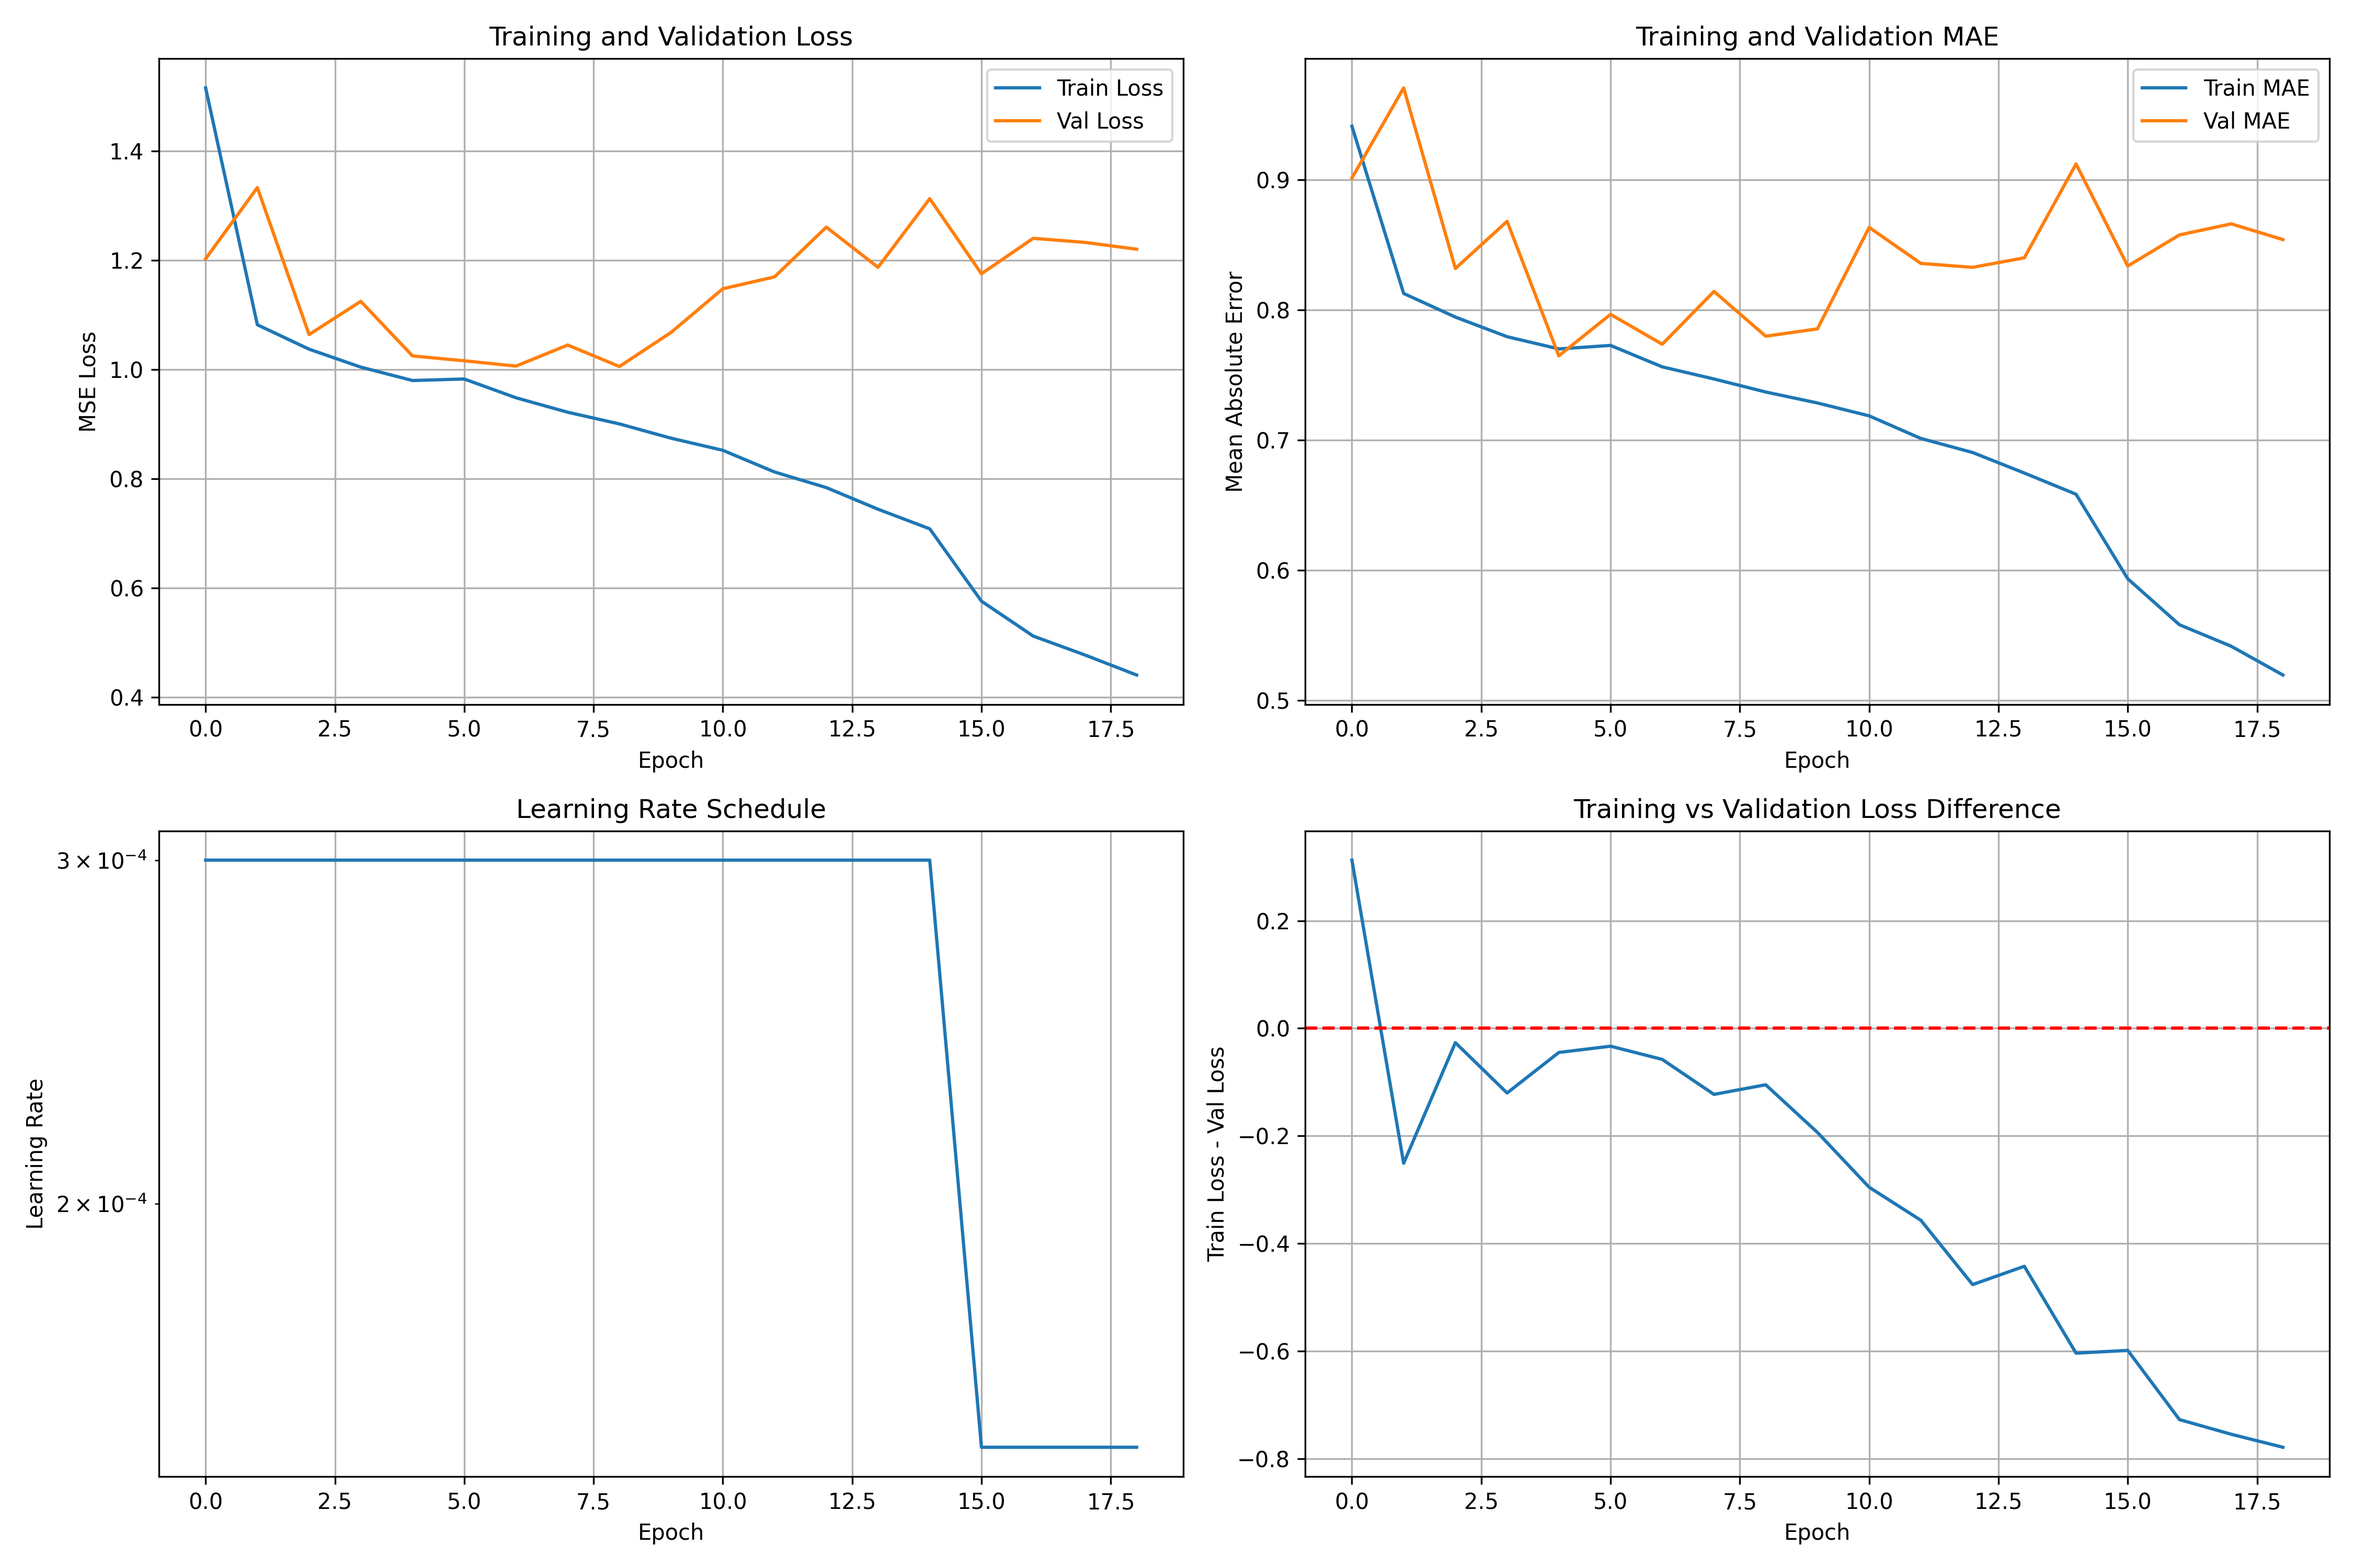
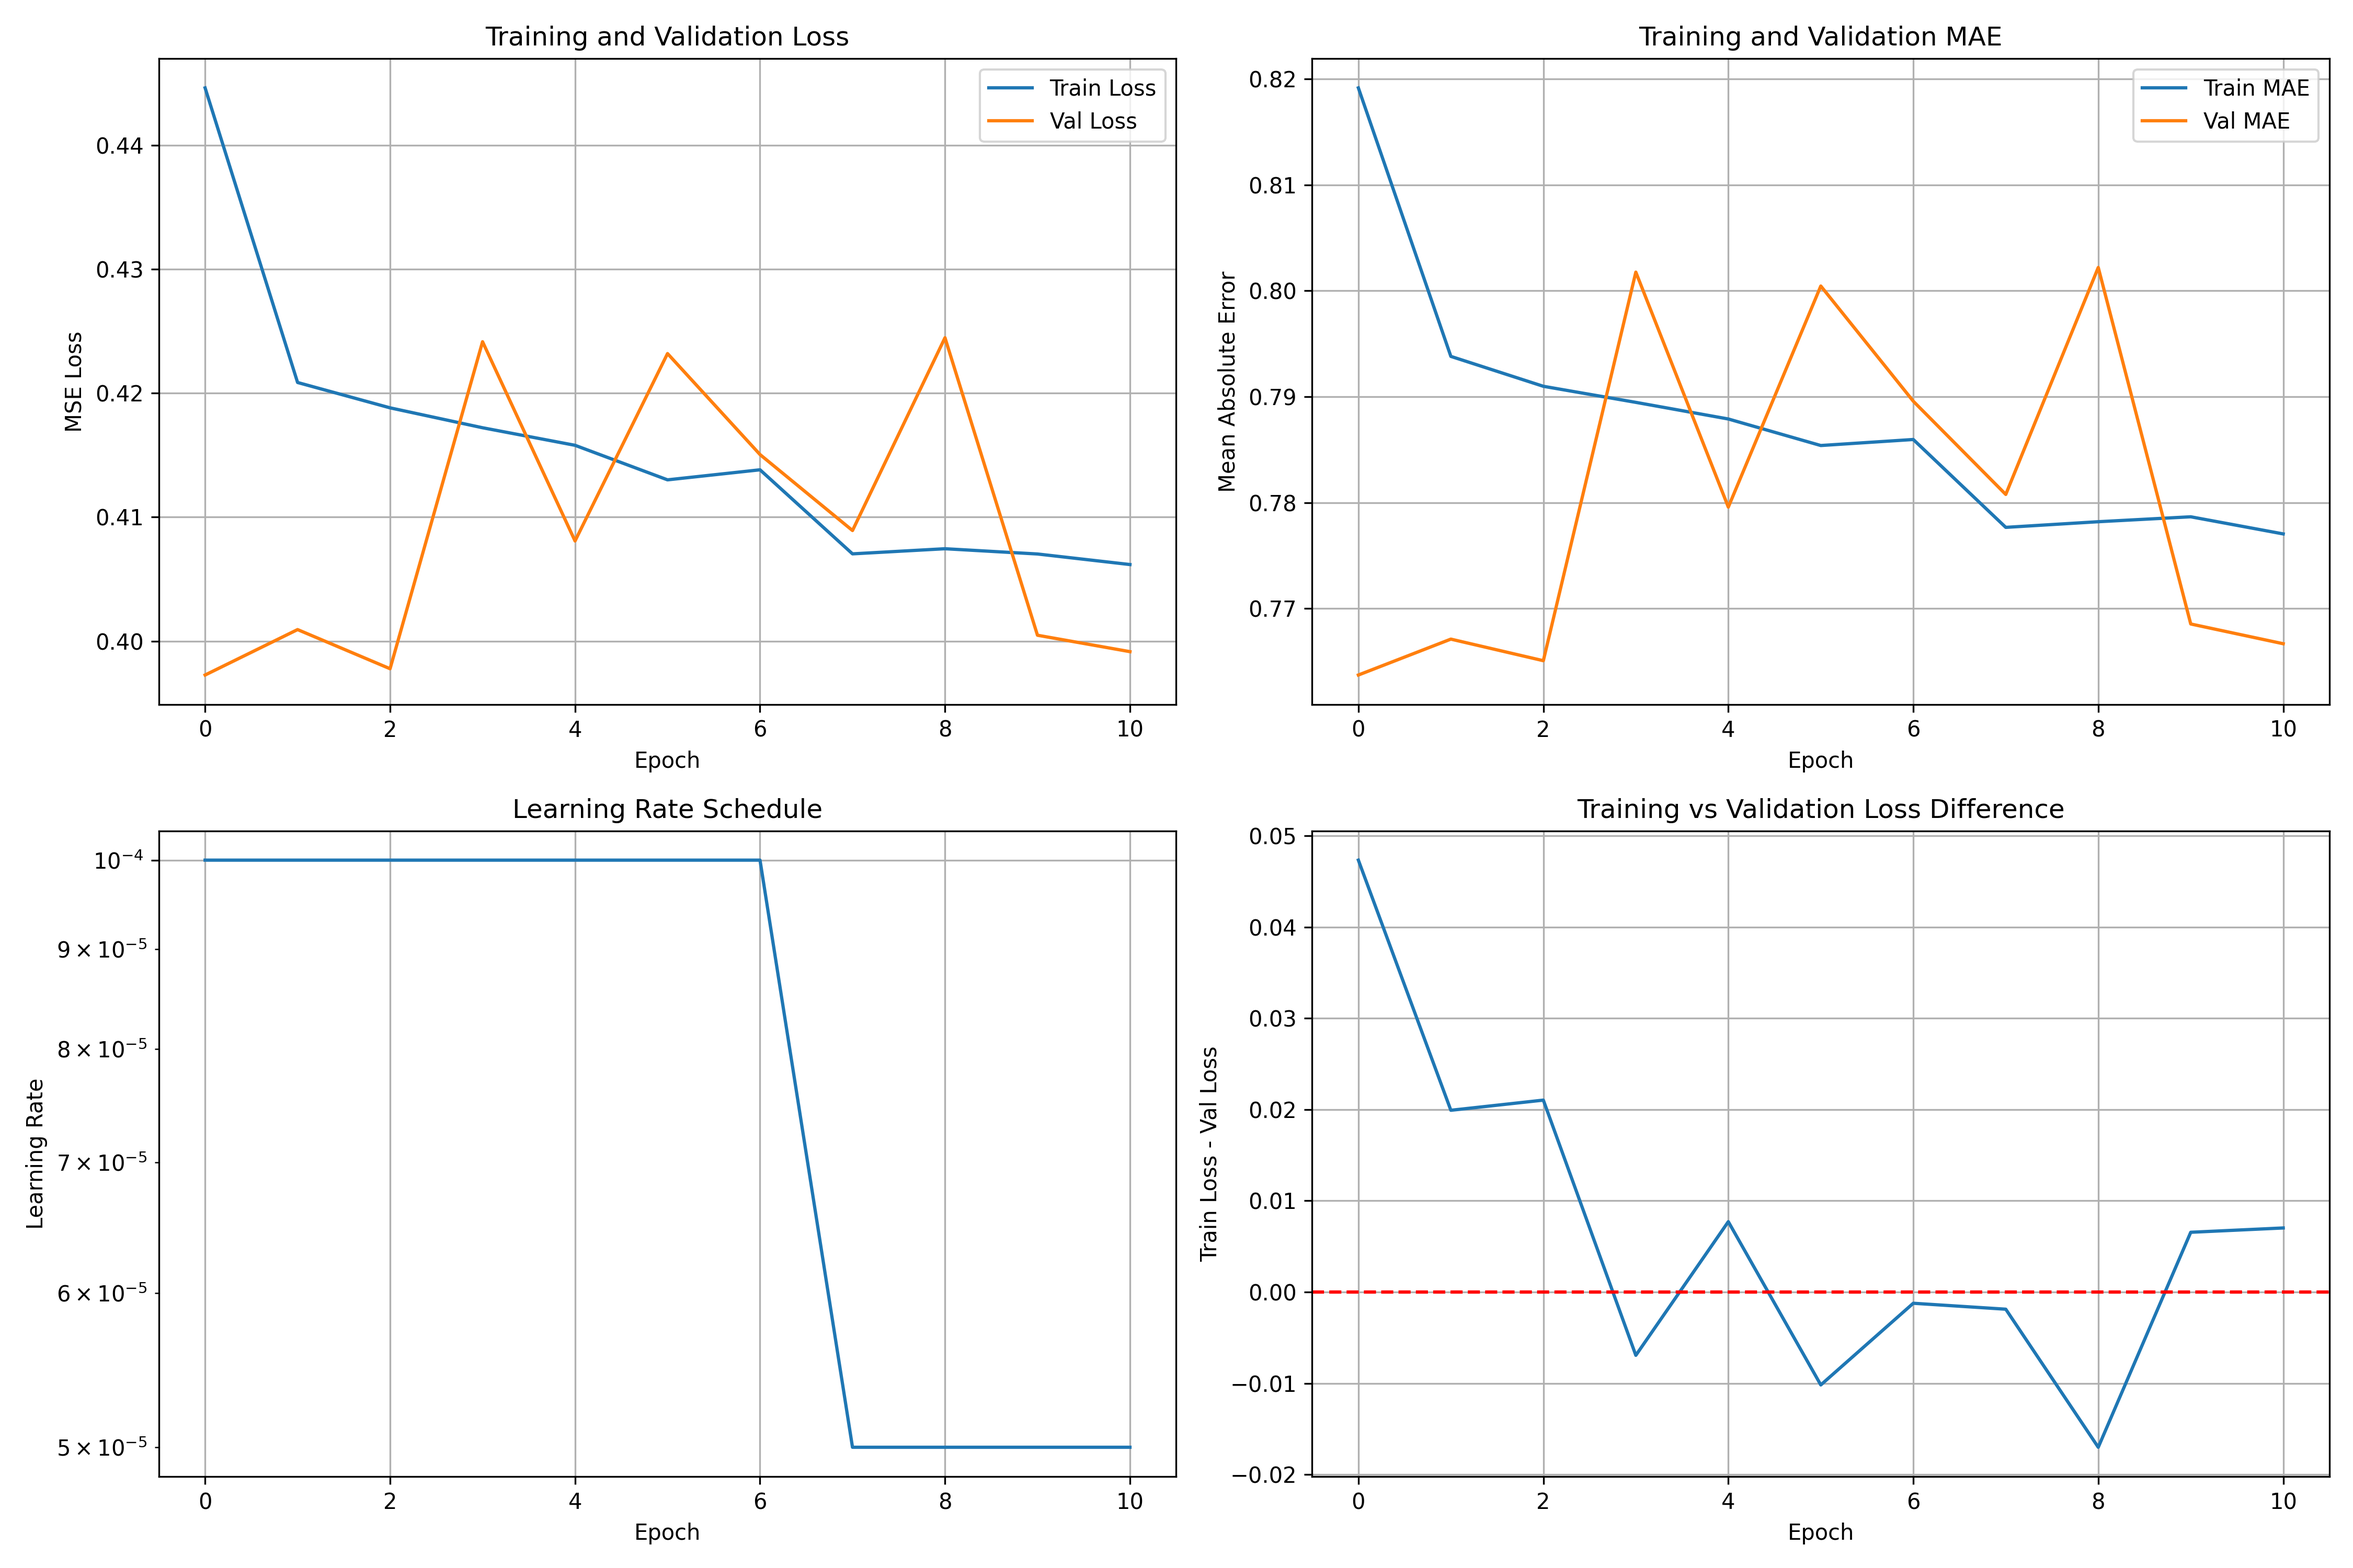
resnet50 best model

diff --git a/model_trainer.py b/model_trainer.py
@@ -85,12 +85,21 @@ class RatingPredictionModel(nn.Module):
             self.backbone = models.resnet18(pretrained=pretrained)
             num_features = self.backbone.fc.in_features
             self.backbone.fc = nn.Identity()
+        elif backbone == 'resnet101':
+            self.backbone = models.resnet101(pretrained=pretrained)
+            num_features = self.backbone.fc.in_features
+            self.backbone.fc = nn.Identity()
         elif backbone == 'efficientnet':
             self.backbone = models.efficientnet_b0(pretrained=pretrained)
             num_features = self.backbone.classifier[1].in_features
             self.backbone.classifier = nn.Identity()
+        elif backbone == 'efficientnet_b3':
+            self.backbone = models.efficientnet_b3(pretrained=pretrained)
+            num_features = self.backbone.classifier[1].in_features
+            self.backbone.classifier = nn.Identity()
         else:
             raise ValueError(f"Unsupported backbone: {backbone}")
+            print(f"Available backbones: resnet18, resnet50, resnet101, efficientnet, efficientnet_b3")
         
         # Custom classifier head
         self.classifier = nn.Sequential(
@@ -200,7 +209,7 @@ class RatingPredictor:
         """Train the rating prediction model"""
         
         # Loss and optimizer
-        criterion = nn.MSELoss()
+        criterion = nn.L1Loss()  # MAE'yi direkt optimize eder (L1 Loss)
         optimizer = optim.Adam(model.parameters(), lr=learning_rate, weight_decay=weight_decay)
         scheduler = optim.lr_scheduler.ReduceLROnPlateau(
             optimizer, mode='min', factor=0.5, patience=patience//2, verbose=True
@@ -505,11 +514,11 @@ class RatingPredictor:
 
 # Model Configuration
 MODEL_CONFIG = {
-    'backbone': 'efficientnet',        # Modeller: resnet18, resnet50, efficientnet
-    'batch_size': 16,                  
-    'num_epochs': 30,                  
-    'learning_rate': 0.005,            
-    'dropout': 0.5,                   
+    'backbone': 'resnet50',         # ResNet101 çok büyük, ResNet50 daha stabil
+    'batch_size': 16,               # 32 → 16 (VRAM'a uygun)
+    'num_epochs': 50,               
+    'learning_rate': 0.0001,        # 0.01 → 0.0001 (ÇOK ÖNEMLİ!)
+    'dropout': 0.3,                 # Overfitting önleme
     'augment': True,                   
 }
 
